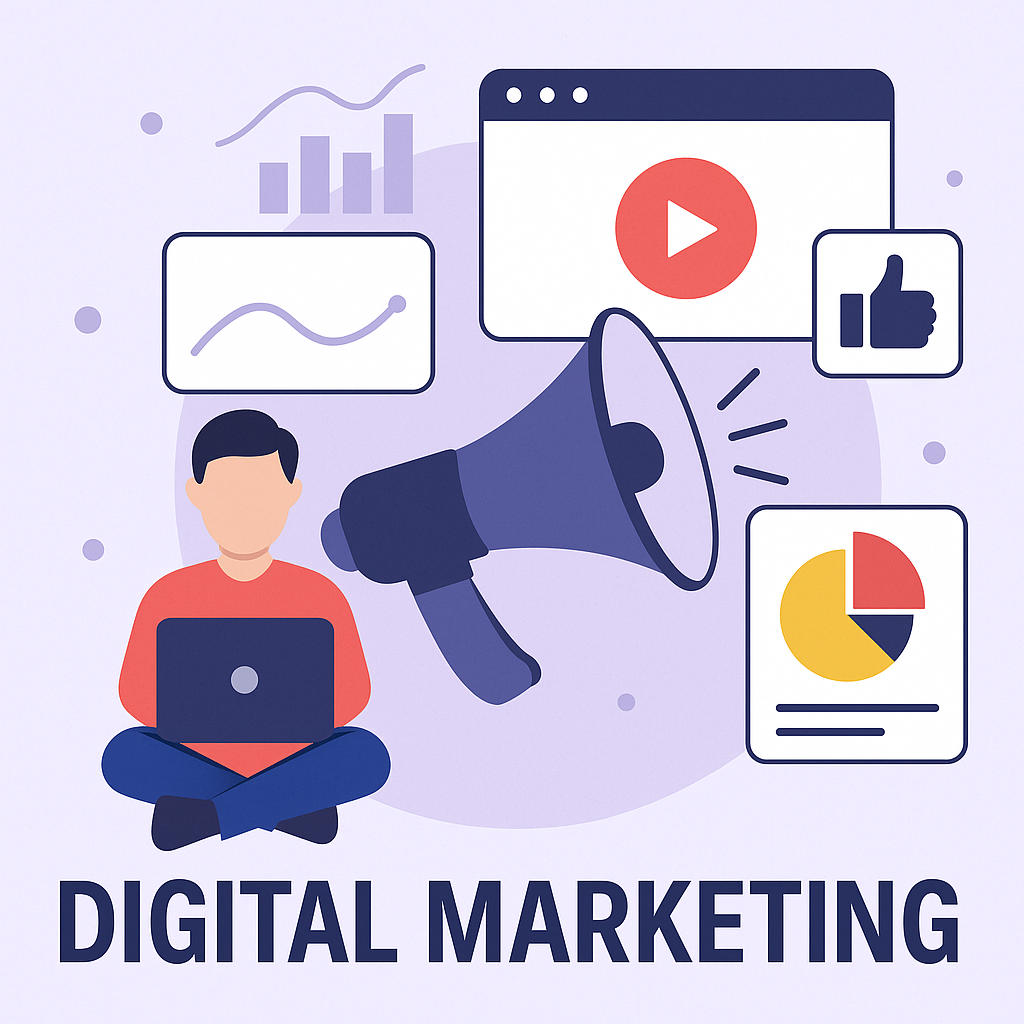
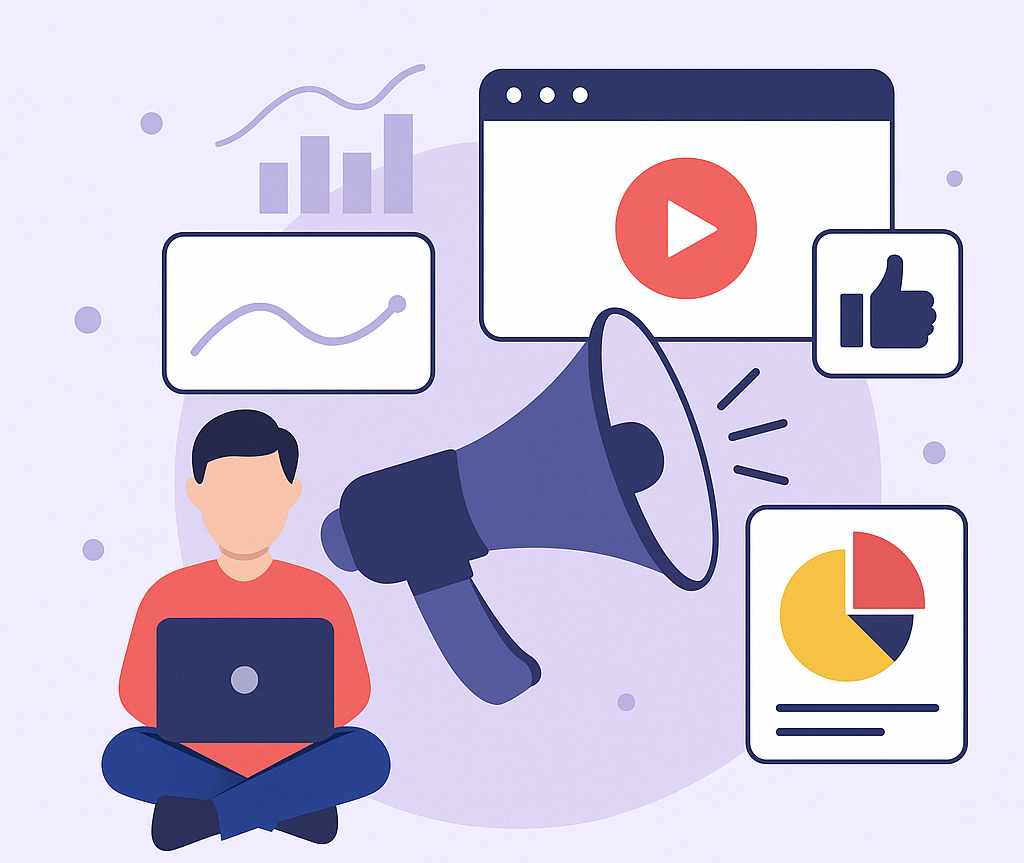
added service images

diff --git a/app/services/[slug]/page.tsx b/app/services/[slug]/page.tsx
@@ -84,7 +84,7 @@ const ServicePage = async ({ params }: {params: Promise<{ slug: string }>}): Pro
             alt={service.title}
             width={400}
             height={300}
-            className="rounded-2xl shadow-lg"
+            className="rounded-2xl shadow-lg w-auto h-auto"
           />
         ) : service.icon ? (
           <Image
